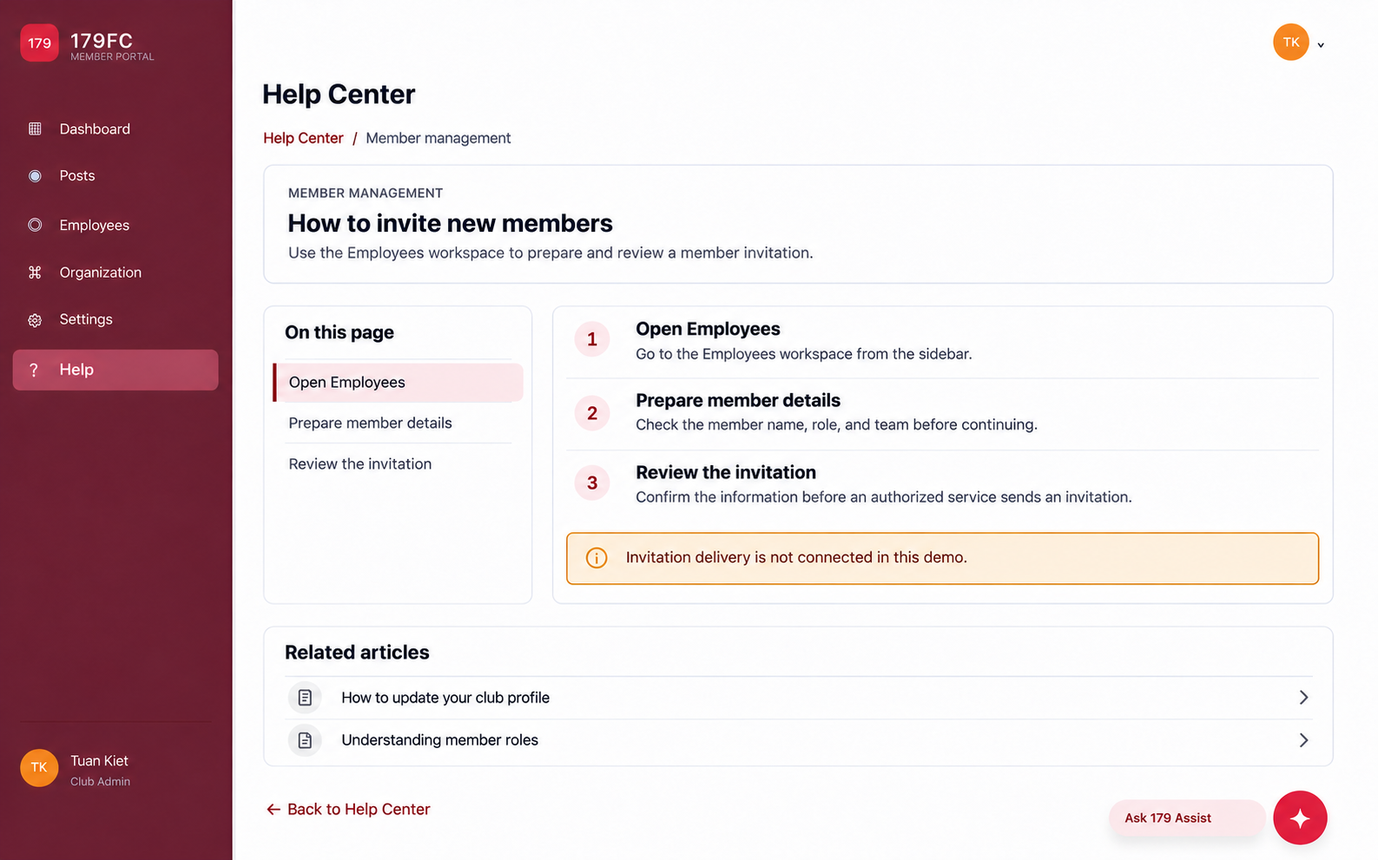
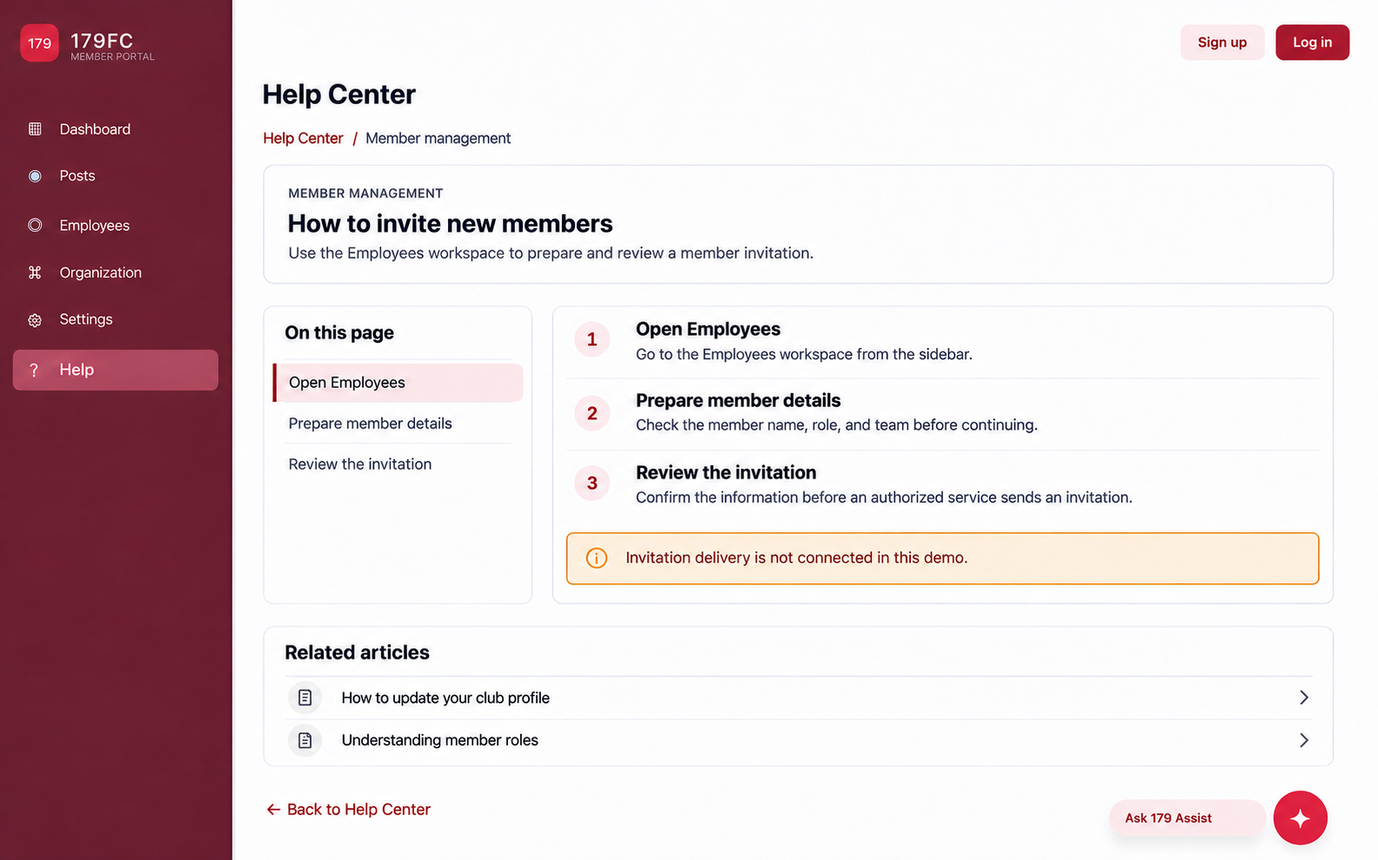
fix(179MMS-10): validate guest return paths

diff --git a/frontend/src/features/auth/pages/SignInPage.jsx b/frontend/src/features/auth/pages/SignInPage.jsx
@@ -9,6 +9,16 @@ function AuthBrand() {
   return <div className="auth-brand"><span className="brand__mark">179</span><span><strong>179FC</strong><small>MEMBER MANAGEMENT PORTAL</small></span></div>;
 }
 
+function isSafeInternalReturnTo(returnTo) {
+  if (typeof returnTo !== 'string' || !returnTo.startsWith('/') || returnTo.startsWith('//') || returnTo.includes('\\')) return false;
+  try {
+    const decoded = decodeURIComponent(returnTo);
+    return !decoded.startsWith('//') && !decoded.includes('\\');
+  } catch {
+    return false;
+  }
+}
+
 export function SignInPage() {
   const navigate = useNavigate();
   const location = useLocation();
@@ -16,8 +26,7 @@ export function SignInPage() {
   const [isSigningIn, setIsSigningIn] = useState(false);
   function handleSignIn() {
     const returnTo = location.state?.returnTo;
-    const destination = typeof returnTo === 'string' && returnTo.startsWith('/') && !returnTo.startsWith('//')
-      ? returnTo : ROUTES.dashboard;
+    const destination = isSafeInternalReturnTo(returnTo) ? returnTo : ROUTES.dashboard;
     setIsSigningIn(true);
     signIn();
     navigate(destination, { replace: true });

diff --git a/designs/README.md b/designs/README.md
@@ -9,6 +9,7 @@ This directory contains desktop design references and their accompanying UX desc
 | Screen or state | Image | UX description | Route or state |
 | --- | --- | --- | --- |
 | Sign-in | [PNG](Sign-in/Sign-in.png) | [UX](Sign-in/Sign-in.md) | `/sign-in` |
+| Guest header states | [PNG](Guest/Guest_Header_States.png) | [UX](Guest/Guest_Header_States.md) | Guest default and signed-in TopBar states |
 | Dashboard | [PNG](Dashboard/Dashboard.png) | [UX](Dashboard/Dashboard.md) | `/dashboard` |
 | Employees | [PNG](Employees/Employees.png) | [UX](Employees/Employees.md) | `/employees` |
 | Organization | [PNG](Organization/Organization.png) | [UX](Organization/Organization.md) | `/organization` |
@@ -37,6 +38,7 @@ This directory contains desktop design references and their accompanying UX desc
 designs/
 |-- Assist/           Assist.png, Assist.md
 |-- Dashboard/        Dashboard.png, Dashboard.md
+|-- Guest/            Guest_Header_States.png, Guest_Header_States.md
 |-- Employees/        Employees.png, Employees.md
 |-- Help/             Help.png, Help_Invite_Members, Help_Club_Profile,
 |                     Help_Member_Roles, Help_Support (.png and .md)
@@ -53,23 +55,23 @@ designs/
 
 The Posts and Settings tab files represent states of their respective pages, not separate sidebar destinations. The active tab must be represented in the URL so that refresh, browser navigation, and a copied link restore the same view. Post details, creation, and editing are separate screens reached from the posts list or details page.
 
-Historical exports do not include a Figma source URL or known export date. The Settings revision for **179MMS-6** was exported from a local browser rendering on **2026-11-03**, including responsive/state boards; no Figma edits are claimed. Per the owner's request, `Settings/` retains only `.png` UI references and `.md` UX documents; authoring/export scripts and separate handoff documents are not retained. Other PNGs remain desktop references. Read design intent alongside the frontend README for actual implementation status.
+Historical exports do not include a Figma source URL or known export date. The Settings revision for **179MMS-6** was exported from a local browser rendering on **2026-11-03**, including responsive/state boards; no Figma edits are claimed. The **179MMS-10** `Guest_Header_States.png`, refreshed `Help.png`, and refreshed `Help_Invite_Members.png` assets were created through an image-generation workflow on **2026-11-08**; they have no Figma source URL. Per the owner's request, `Settings/` retains only `.png` UI references and `.md` UX documents; authoring/export scripts and separate handoff documents are not retained. Other PNGs remain desktop references. Read design intent alongside the frontend README for actual implementation status.
 
 ## UI and component overview
 
-### Shared authenticated shell
+### Shared portal shell
 
-`AppShell` wraps all private pages and owns the desktop layout: a fixed sidebar, page header, and content area. Dashboard, Employees, and Organization all share this shell.
+`AppShell` wraps every default portal page and owns the desktop layout: a fixed sidebar, page header, and content area. Dashboard, Posts, Settings, Help, and 179 Assist render for guests; Employees, member profiles, and Organization use the mock-session route guard.
 
 | Component | Responsibility | Used by |
 | --- | --- | --- |
-| `AppShell` | Composes `Sidebar`, `TopBar`, page content, and the assistant launcher; handles shared responsive/layout behavior. | Every private page |
-| `Sidebar` | Brand/logo, `NavItem`s, bottom user summary, and the active navigation state derived from the URL. | `AppShell` |
-| `TopBar` | Page title, optional context, and avatar-based `UserMenu`. Settings revision removes its subtitle. Open menus in historical references are interaction states, not permanent cards. | `AppShell` |
-| `PageHeader` | Standardizes titles, subtitles, and page actions. | Private pages |
+| `AppShell` | Composes `Sidebar`, `TopBar`, page content, and the assistant launcher; handles shared responsive/layout behavior. | Every default portal page |
+| `Sidebar` | Brand/logo, `NavItem`s, active navigation state, and a signed-in-only bottom user summary. | `AppShell` |
+| `TopBar` | Page title, optional context, guest Sign up/Log in actions, or the signed-in avatar-based `UserMenu`. Settings revision removes its subtitle. Open menus in historical references are interaction states, not permanent cards. | `AppShell` |
+| `PageHeader` | Standardizes titles, subtitles, and page actions. | Portal pages |
 | `Tabs` | Accessible tab list with an active underline. Keeps its selected value in the page URL, supports keyboard navigation, and becomes horizontally scrollable rather than wrapping on narrow screens. | Posts, Settings |
 | `Avatar` | Renders an image or colored-initials fallback. | Header, cards, organization nodes |
-| User menu | Toggleable account popover implemented within `TopBar`, with Profile, Settings, Help center, and Log out actions. Closes on outside click, Escape, and navigation. | `TopBar` |
+| User menu | Signed-in-only account popover implemented within `TopBar`, with Profile, Settings, Help center, a divider, and left-aligned Log out. Closes on outside click, Escape, and navigation. | `TopBar` |
 | `AssistantLauncher` | Persistent icon button with an accessible name, plus an expandable chat panel with a close action, message history, prompt suggestion, and submit input. The launcher tooltip has been removed. | `AppShell` |
 | Loading, empty, and error states | Required for integration; Settings now includes a state board. Use shared `EmptyState` and appropriate page-level states. | Per feature |
 
@@ -156,7 +158,7 @@ Read every PNG/Markdown pair directly, including the [responsive](Settings/Setti
 
 The Help article PNG/Markdown pairs share one nested-route reference: ordinary uppercase-gray category text, **On this page** with a pale-pink current row and burgundy leading indicator, a boundary callout inside the step card, and burgundy Help Center breadcrumb/Back links. Read `Help/Help.md` with each article pair before implementation.
 
-The circular assistant trigger is present in the authenticated shell. It expands to the `AssistantPanel` reference: a header with availability message and close button, a conversation area, suggested question, and labelled text input with submit button. Opening the panel must move focus into it; closing returns focus to the launcher. Messages need their own loading/error state and must be announced accessibly.
+The circular assistant trigger is present in the shared guest-capable shell. It expands to the `AssistantPanel` reference: a header with availability message and close button, a conversation area, suggested question, and labelled text input with submit button. Opening the panel must move focus into it; closing returns focus to the launcher. Messages need their own loading/error state and must be announced accessibly.
 
 ## Minimal design system
 
@@ -310,7 +312,7 @@ The frontend uses feature-based folders under `src/features/`; shared layout and
 - Tab values are validated by a page-level parser. Invalid or missing values canonicalize to `all` for Posts and `general` for Settings without creating a duplicate history entry. Browser Back/Forward restores the appropriate tab and its data request.
 - Do not mix post, settings, help, and assistant data in a global page store. Each feature owns its loading/error/cache state; `authStore` remains limited to identity/session data and shared user-menu data.
 - Production settings, post publication/editing, password and session management, and support require server-authorized feature APIs. The current mock workflows do not provide server-side authorization or shared persistence.
-- The auth guard redirects unauthenticated users to `/sign-in`; `authStore` retains the current user and session. Confirm the admin permission model with the backend before restricting “Add member” or administration routes.
+- The auth guard redirects unauthenticated users only from Employees, member profiles, and Organization to `/sign-in`; `authStore` retains the current user and session. Confirm the admin permission model with the backend before restricting “Add member” or administration routes.
 - Keep labels/content in constants or data models instead of duplicating strings across components; this also keeps the door open for i18n if needed.
 
 ## Current implementation and remaining integration
@@ -327,4 +329,4 @@ The shell, demo sign-in, Dashboard, post list and workflow, Settings, Employees 
 - Keep the image and UX description for each screen or state together in its feature folder, using matching base names. Existing exports retain their current names; use English, lowercase kebab-case for new assets where practical. Use SVG for icons and vectors, and optimized PNG/WebP for raster assets.
 - Do not store credentials, real member data, or unlicensed assets.
 - When a design changes, update its image and UX description together, and record its Figma/source link, export date, and any route/component impact here when available. For a tabbed page, record every tab state and whether it changes the shared component/API contract. Also update `frontend/README.md` when the architecture, dependency set, routes, or data flow changes.
-- The Help package was revised locally for **179MMS-9** on 2026-11-06. It now contains `Help.png` plus Invite Members, Club Profile, Member Roles, and Support references, each as a `.png` and matching `.md`. No Figma source or export date was supplied. All nested Help references share the existing authenticated shell and one article-template/typography contract; their Markdown defines TopBar `h1` ownership, matching TOC anchors, responsive behavior, states, motion, accessibility, and the Support unavailable-service boundary.
+- The Help package was revised locally for **179MMS-9** on 2026-11-06 and synchronized for **179MMS-10** guest access. It contains `Help.png` plus Invite Members, Club Profile, Member Roles, and Support references, each as a `.png` and matching `.md`. No Figma source or export date was supplied. All nested Help references share the guest-capable shell and one article-template/typography contract; their Markdown defines TopBar `h1` ownership, matching TOC anchors, responsive behavior, states, motion, accessibility, and the Support unavailable-service boundary.

diff --git a/designs/Help/Help.md b/designs/Help/Help.md
@@ -2,7 +2,7 @@
 
 ## Scope
 
-`Help.png` is the revised desktop reference for authenticated `/help` in 179MMS-9. It now normalizes the full Help text hierarchy and introduces the companion article and Support references in this folder. The PNG was revised locally on 2026-11-06; no Figma source or export date was supplied.
+`Help.png` is the revised desktop reference for `/help` in 179MMS-9, synchronized for guest access in 179MMS-10. It now normalizes the full Help text hierarchy and introduces the companion article and Support references in this folder. Its 179MMS-10 guest/header revision was created through an image-generation workflow on 2026-11-08; no Figma source URL is supplied.
 
 ## Typography and hierarchy
 
@@ -13,7 +13,7 @@
 
 ## Shared nested-route contract
 
-- `Help.png`, all article references, and `Help_Support.png` reuse one identical authenticated shell: the existing sidebar width, 179FC logo, navigation/icon set, active Help item, TopBar alignment, TK avatar trigger, page gutter, and 179 Assist launcher. Nested routes change only the content region.
+- `Help.png`, all article references, and `Help_Support.png` reuse one identical guest-capable shell: the existing sidebar width, 179FC logo, navigation/icon set, active Help item, TopBar alignment, page gutter, and 179 Assist launcher. Guests see Sign up and Log in instead of the avatar trigger; the avatar menu appears only after mock sign-in. Nested routes change only the content region.
 - The nested article routes use one layout template: burgundy **Help Center** breadcrumb; simple white article header card with an ordinary uppercase-gray category label (never a pill); narrow **On this page** card; numbered step card with its boundary callout inside it after the last divider; full-width two-row **Related articles** card; and burgundy **Back to Help Center**. Category text, article title, steps, callout copy, and related routes are the only content variants.
 - Heading ownership is explicit. On `/help` and `/help/articles/*`, the shared TopBar **Help Center** is the sole page `h1`; an article title is a content `h2`. On `/help/support`, the shared TopBar **Contact support** is the sole `h1`; content starts with the `h2` **Tell us how we can help**, never a second `Contact support` heading.
 - Every desktop article reference shows the first TOC target as the current location: a pale-pink row background and burgundy leading indicator. This common active state is used for `Open Employees`, `Open Settings`, and `Review the member role`.
@@ -30,8 +30,8 @@ The primary Help journey is search → quick guide or popular article. **Need mo
 
 ## Content, states, and navigation
 
-- Search filters the three quick guides and article records by task/keyword. Guide and article targets remain unambiguous and whole rows/actions are keyboard accessible.
-- Popular articles route to `/help/articles/invite-members`, `/help/articles/club-profile`, and `/help/articles/member-roles`. Their references are `Help_Invite_Members.*`, `Help_Club_Profile.*`, and `Help_Member_Roles.*`.
+- Search spans the available Help content width and filters the three quick guides and article records by task/keyword. Guide and article targets remain unambiguous and whole rows/actions are keyboard accessible.
+- Popular articles route to `/help/articles/invite-members`, `/help/articles/club-profile`, and `/help/articles/member-roles` with the shared 350 ms page reveal. Their references are `Help_Invite_Members.*`, `Help_Club_Profile.*`, and `Help_Member_Roles.*`.
 - Loading keeps the title/search stable and uses card/row skeletons without layout shift. Search is disabled only while filtering cannot be evaluated, with a concise assistive status.
 - Empty results preserve search and the support recovery route, with: **No help articles match your search. Try another keyword or contact support.**
 - Error preserves the title/search and provides an explicit **Retry** action. Focus stays predictable: on an unsuccessful retry it returns to Retry; after a successful retry it returns to the enabled search field.
@@ -40,7 +40,7 @@ The primary Help journey is search → quick guide or popular article. **Need mo
 
 - Desktop uses three quick-guide cards and a lower two-column section. At medium width, guides use two columns and the lower section stacks; at narrow width, the existing sidebar drawer and one-column content layout apply.
 - Interactive targets are at least 44 px. Visible `:focus-visible` treatment is required for search, guide actions, article rows, support action, menu toggle, and assistant launcher.
-- Use the portal’s 350 ms opacity/8–10 px page arrival; quick guides may enter in DOM order with a 40–50 ms stagger. Query edits must not replay entrance motion.
+- Use the portal’s 350 ms opacity/8–10 px page arrival; quick guides may enter in DOM order with a 40–50 ms stagger. Each article route rekeys the reveal. A TOC selection retains the current article layout, writes its valid hash to browser history, smoothly scrolls to the existing step, and changes the active indicator rather than opening a sub-page. Query edits must not replay entrance motion.
 - `prefers-reduced-motion: reduce` removes page, card, hover-transform, and skeleton movement without removing focus or controls.
 
 ## Implementation boundary

diff --git a/designs/Guest/Guest_Header_States.md b/designs/Guest/Guest_Header_States.md
@@ -1,0 +1,29 @@
+# Guest Header States — 179MMS-10
+
+Read with `Guest_Header_States.png`.
+
+## Source and implementation status
+
+- Asset source: image-generation workflow on 2026-11-08; no Figma file or source URL was supplied.
+- Status: implemented by the React shared `AppShell`, `TopBar`, `Sidebar`, auth route guard, and `SignInPage`.
+- The PNG is a desktop state reference. Exact card figures and navigation labels are illustrative; route/access behavior below is authoritative.
+
+## Guest default state
+
+- A fresh browser tab opens the guest Dashboard. Dashboard, Posts, Settings, Help (including article and Support routes), and 179 Assist remain accessible in the shared portal shell.
+- The TopBar replaces the signed-in avatar trigger with distinct **Sign up** and **Log in** links. Both lead to `/sign-in`; registration is not implemented.
+- Guest navigation may expose Employees and Organization destinations, but `/employees`, `/employees/:memberId`, and `/organization` are protected. Before their contents render, a guest is redirected to `/sign-in` with a valid internal return target.
+- The guest sidebar has no account/avatar summary. The assistant remains available as the existing launcher.
+
+## Fake sign-in and signed-in menu
+
+- **Sign in to 179FC** is the sole mock authentication action. It stores the existing browser-tab demo session, then returns to the valid protected destination or `/dashboard`.
+- Only a slash-prefixed internal return target is accepted. Protocol-relative, backslash-containing, malformed, and encoded external-like values fall back to `/dashboard`; they must not produce a browser navigation error.
+- Once signed in, the TopBar restores the avatar trigger and its popup: identity, Profile, Settings, Help center, a horizontal divider, then **Log out**.
+- **Log out** is a full-width, left-aligned 44 px minimum target below the divider. It clears the mock session and returns to guest Dashboard.
+- Escape closes the menu and restores focus to its trigger. All header actions have a visible focus state and remain usable on narrow layouts.
+
+## Responsive and accessibility contract
+
+- Preserve the existing mobile drawer and top-bar wrapping behavior. Sign up and Log in stay individually reachable targets rather than becoming a menu-only action.
+- Do not claim real registration, credential verification, authorization, or server persistence. The mock session is a UI demonstration only.

diff --git a/designs/Help/Help_Invite_Members.md b/designs/Help/Help_Invite_Members.md
@@ -5,14 +5,15 @@ Read with `Help_Invite_Members.png`.
 ## Route and purpose
 
 - Route: `/help/articles/invite-members`.
+- The 179MMS-10 guest/header revision of the paired PNG was created through an image-generation workflow on 2026-11-08; no Figma source URL is supplied.
 - Help an administrator prepare for an invitation from the Employees workflow without representing an email/invitation as already delivered.
-- Keep the exact shared shell from `Help.png`, including sidebar/logo/nav/icon set, TopBar position, TK avatar trigger, page gutter, and 179 Assist launcher. Only the content region changes.
+- Keep the exact guest-capable shared shell from `Help.png`, including sidebar/logo/nav/icon set, TopBar position, guest Sign up/Log in actions (or the avatar menu after mock sign-in), page gutter, and 179 Assist launcher. Only the content region changes.
 - The compact shared **Help Center** TopBar is the route `h1`; the article title is a content `h2`. Breadcrumb is 13 px, category/TOC label 12–13 px, article `h2` 22–24 px, step/TOC headings 16–17 px, and body/callout/related rows 14 px.
 
 ## Article structure
 
 - Use the common article template from `Help.md`: burgundy Help Center breadcrumb; simple white header with an ordinary uppercase-gray category label; narrow **On this page** card; numbered step card with the callout inside after the last divider; full-width two-row related card; burgundy Back.
-- The TOC anchors exactly match the steps: **Open Employees** (`#open-employees`), **Prepare member details** (`#prepare-member-details`), and **Review the invitation** (`#review-the-invitation`). The shown first target has `aria-current="location"`, a pale-pink row background, and a burgundy leading indicator.
+- The TOC anchors exactly match the steps: **Open Employees** (`#open-employees`), **Prepare member details** (`#prepare-member-details`), and **Review the invitation** (`#review-the-invitation`). Selecting a row keeps this article layout, pushes the matching hash to browser history, smoothly scrolls to the existing step, and changes `aria-current="location"`, the pale-pink row background, and the burgundy leading indicator.
 - Related articles link to club profile and member roles in complete 44 px rows with a visible destination affordance.
 - The boundary callout reads: **Invitation delivery is not connected in this demo.** It is warning/information, not an error or a promise of an email.
 

diff --git a/tests/frontend/README.md b/tests/frontend/README.md
@@ -22,7 +22,7 @@ Run `npm run test:browser`. Playwright starts a local Vite server on `127.0.0.1:
 - `organization.spec.mjs` covers the simplified toolbar/plain canvas, ellipsis-only actions, search/filter, persistent team zoom/collapse/hide, expanded chart, zoom-aware positioning and cross-team drops (including collapsed targets), membership synchronization with Employees/Profile and another open tab, preserved avatar/phone, empty-team recovery, failed writes, keyboard/cancel/reset behavior, mobile bounds, reduced motion and the assistant.
 - `help.spec.mjs` covers the subtitle-free shared Help header, full-width Search and Help-to-Organization compact control dimensions, reduced type scale and computed Popular article title scale on desktop/mobile, quick-guide/article destinations, shared article heading/TOC/current-anchor/hash/boundary/recovery behavior, rekeyed nested article/Support route motion and TOC movement with reduced-motion fallback, the non-sending Support form boundary, 44 px actions, filtered empty recovery with Contact support, 390 px layout/drawer bounds, and overview page/card arrival behavior without re-entry on query changes.
 - `help-retry.spec.mjs` uses a route-fulfilled mock adapter to cover failed Help load → Retry → successful input focus, and a repeated failure that retains Retry focus. It does not add a production test hook.
-- `guest-access.spec.mjs` covers guest TopBar actions, public Dashboard/Posts/Settings/Help access, redirect-and-return for Employees and Organization, and the authenticated menu's left-aligned, separated logout returning to guest Dashboard.
+- `guest-access.spec.mjs` covers guest TopBar actions, public Dashboard/Posts/Settings/Help access, redirect-and-return for Employees and Organization, fallback from malformed/external-like return state without an unhandled client error, and the authenticated menu's left-aligned, separated logout returning to guest Dashboard.
 - Screenshots and failure traces are written to `179fc-organization-test-results` under the operating system's temporary directory. Successful screenshot cases include desktop, member menu, and mobile layouts. Open a retained trace with `npx playwright show-trace <path-to-trace.zip>`.
 
 These checks cover the local mock-data workflow; they do not verify backend authorization or shared persistence. Extend coverage when those contracts become available.

diff --git a/frontend/README.md b/frontend/README.md
@@ -160,7 +160,7 @@ The application requires Node.js 20.19 or newer (or Node.js 22.12 or newer).
 ## Implemented routes and flow
 
 - Guest is the default portal state. `/dashboard`, Posts, Settings, Help (including articles and Support), and 179 Assist render in the shared shell without a session. The TopBar replaces the account avatar with **Sign up** and **Log in**; both intentionally lead to `/sign-in` because registration is not implemented.
-- `/employees`, `/employees/:memberId`, and `/organization` are the only protected routes. A direct guest visit replaces the history entry with `/sign-in`, retaining only its internal destination. **Sign in to 179FC** returns the mock session to that destination or Dashboard; logout clears the mock session, removes the avatar menu, and returns to guest Dashboard.
+- `/employees`, `/employees/:memberId`, and `/organization` are the only protected routes. A direct guest visit replaces the history entry with `/sign-in`, retaining only its internal destination. **Sign in to 179FC** accepts a slash-prefixed internal destination only; protocol-relative, backslash-containing, malformed, or encoded external-like values fall back to Dashboard without a client error. Logout clears the mock session, removes the avatar menu, and returns to guest Dashboard.
 - `/sign-in` uses an explicit demo-access flow. Any sign-in creates a mock Club Admin session in `sessionStorage`; credentials are neither validated nor sent. The session survives refresh in the same browser tab and is cleared on logout. This is also true on the public GitHub Pages demo, so it must not be used with real account credentials or member/personal data.
 - `/employees` is a responsive directory of 30 mock members. It has Total, Online, Offline, and Team summary statistics; instant search across name, role, team, and email; and sorting by name, team, or most recently joined. Each member card has an accessible profile link plus entrance and hover motion that respects the user's reduced-motion preference.
 - `/employees/:memberId` provides a working member profile. Users can upload or remove a PNG, JPG, or WebP avatar (up to 1.5 MB), select a team, and edit date of birth and phone number. Changes are stored only in the current browser's `localStorage` and are reflected in the directory; they are mock data, not server-side member records.

diff --git a/designs/Help/Help_Club_Profile.md b/designs/Help/Help_Club_Profile.md
@@ -6,7 +6,7 @@ Read with `Help_Club_Profile.png` and `../Settings/Settings_General.md`.
 
 - Route: `/help/articles/club-profile`.
 - Explain the existing Settings → General journey for reviewing and saving club-profile preferences without presenting browser-local persistence as a shared server update.
-- Reuse the exact shared shell from `Help.png`, including sidebar/logo/nav/icon set, TopBar position, TK avatar trigger, page gutter, and 179 Assist launcher. Only the content region changes.
+- Reuse the exact guest-capable shared shell from `Help.png`, including sidebar/logo/nav/icon set, TopBar position, guest Sign up/Log in actions (or the avatar menu after mock sign-in), page gutter, and 179 Assist launcher. Only the content region changes.
 - The compact shared **Help Center** TopBar is the route `h1`; the article title is a content `h2`. Breadcrumb is 13 px, category/TOC label 12–13 px, article `h2` 22–24 px, step/TOC headings 16–17 px, and body/callout/related rows 14 px.
 
 ## Article structure
@@ -18,7 +18,7 @@ Read with `Help_Club_Profile.png` and `../Settings/Settings_General.md`.
 
 ## States and accessibility
 
-- Loading keeps the header and document outline stable. Error/unknown-article state retains Help Center recovery and does not replace the whole authenticated shell.
+- Loading keeps the header and document outline stable. Error/unknown-article state retains Help Center recovery and does not replace the whole guest-capable shell.
 - The shared TopBar supplies the one semantic `h1`; the article title is `h2`. Use ordered instructions, an announced information callout, descriptive navigation labels, and 44 px targets for each navigational action.
 - Keep the desktop reading width comfortable; stack the article navigation, steps, boundary, and related content below tablet width. All optional motion honours `prefers-reduced-motion`.
 

diff --git a/tests/README.md b/tests/README.md
@@ -17,7 +17,7 @@ tests/
 ## Implemented frontend checks
 
 - From `frontend/`, run `npm test` for Node-based post, settings, dashboard, and Organization logic checks.
-- Run `npm run test:browser` for Playwright coverage of guest/public and protected-route demo access, Help overview/article/adapter-backed Support related routes, full-width Help Search, Popular article/TOC motion and reduced-motion behavior, Organization, Employees profile synchronization, responsive layouts, keyboard interactions, and the assistant launcher. The configuration starts Vite on port 5180 and uses installed Edge on Windows by default.
+- Run `npm run test:browser` for Playwright coverage of guest/public and protected-route demo access, safe fallback from malformed return state, Help overview/article/adapter-backed Support related routes, full-width Help Search, Popular article/TOC motion and reduced-motion behavior, Organization, Employees profile synchronization, responsive layouts, keyboard interactions, and the assistant launcher. The configuration starts Vite on port 5180 and uses installed Edge on Windows by default.
 - Pull requests to `main` run these checks in the **Test** job after the frontend **Build** job succeeds. The GitHub Actions runner installs Playwright Chromium before browser checks; the **Deploy** job publishes to GitHub Pages only after both jobs succeed.
 - Test source and configuration remain under `tests/frontend/`; browser artifacts go to the operating system's temporary directory. See [frontend runner setup and scope](frontend/README.md).
 

diff --git a/designs/Help/Help_Support.md b/designs/Help/Help_Support.md
@@ -6,7 +6,7 @@ Read with `Help_Support.png`.
 
 - Route: `/help/support`.
 - Support is retained as a secondary escalation after search and relevant articles do not resolve an operational, account, or permission question. It must never visually compete with the Help Center’s self-service route.
-- The page reuses the exact shared shell from `Help.png`, including sidebar/logo/nav/icon set, TopBar position, TK avatar trigger, page gutter, and 179 Assist launcher. Only the TopBar text changes to **Contact support**.
+- The page reuses the exact guest-capable shared shell from `Help.png`, including sidebar/logo/nav/icon set, TopBar position, guest Sign up/Log in actions (or the avatar menu after mock sign-in), page gutter, and 179 Assist launcher. Only the TopBar text changes to **Contact support**.
 - The compact shared **Contact support** TopBar is the sole route `h1`. The content heading is the non-duplicated `h2` **Tell us how we can help**. Breadcrumb is 13 px, content `h2` 22–24 px, card headings 18 px, and labels/supporting text/callouts/related rows 14 px.
 
 ## Form and guidance

diff --git a/designs/Help/Help_Member_Roles.md b/designs/Help/Help_Member_Roles.md
@@ -6,7 +6,7 @@ Read with `Help_Member_Roles.png`, `../Organization/Organization.md`, and the Em
 
 - Route: `/help/articles/member-roles`.
 - Help readers understand where a displayed member role and team context appear, and make clear that role/permission changes require an authorized process.
-- Reuse the exact shared shell from `Help.png`, including sidebar/logo/nav/icon set, TopBar position, TK avatar trigger, page gutter, and 179 Assist launcher. Only the content region changes.
+- Reuse the exact guest-capable shared shell from `Help.png`, including sidebar/logo/nav/icon set, TopBar position, guest Sign up/Log in actions (or the avatar menu after mock sign-in), page gutter, and 179 Assist launcher. Only the content region changes.
 - The compact shared **Help Center** TopBar is the route `h1`; the article title is a content `h2`. Breadcrumb is 13 px, category/TOC label 12–13 px, article `h2` 22–24 px, step/TOC headings 16–17 px, and body/callout/related rows 14 px.
 
 ## Article structure

diff --git a/designs/Sign-in/Sign-in.md b/designs/Sign-in/Sign-in.md
@@ -16,7 +16,7 @@ Securely access the 179FC member portal with minimal friction.
 - Password input supports show/hide control and password-manager compatibility.
 - Loading prevents duplicate submissions.
 - Failed authentication does not indicate whether a particular account exists.
-- Successful authentication sends the user to Dashboard, or their intended protected destination.
+- Successful fake authentication sends the user to Dashboard, or their valid intended protected destination. Protocol-relative, backslash-containing, malformed, and encoded external-like return targets are rejected and use Dashboard instead.
 
 ## Navigation
 
